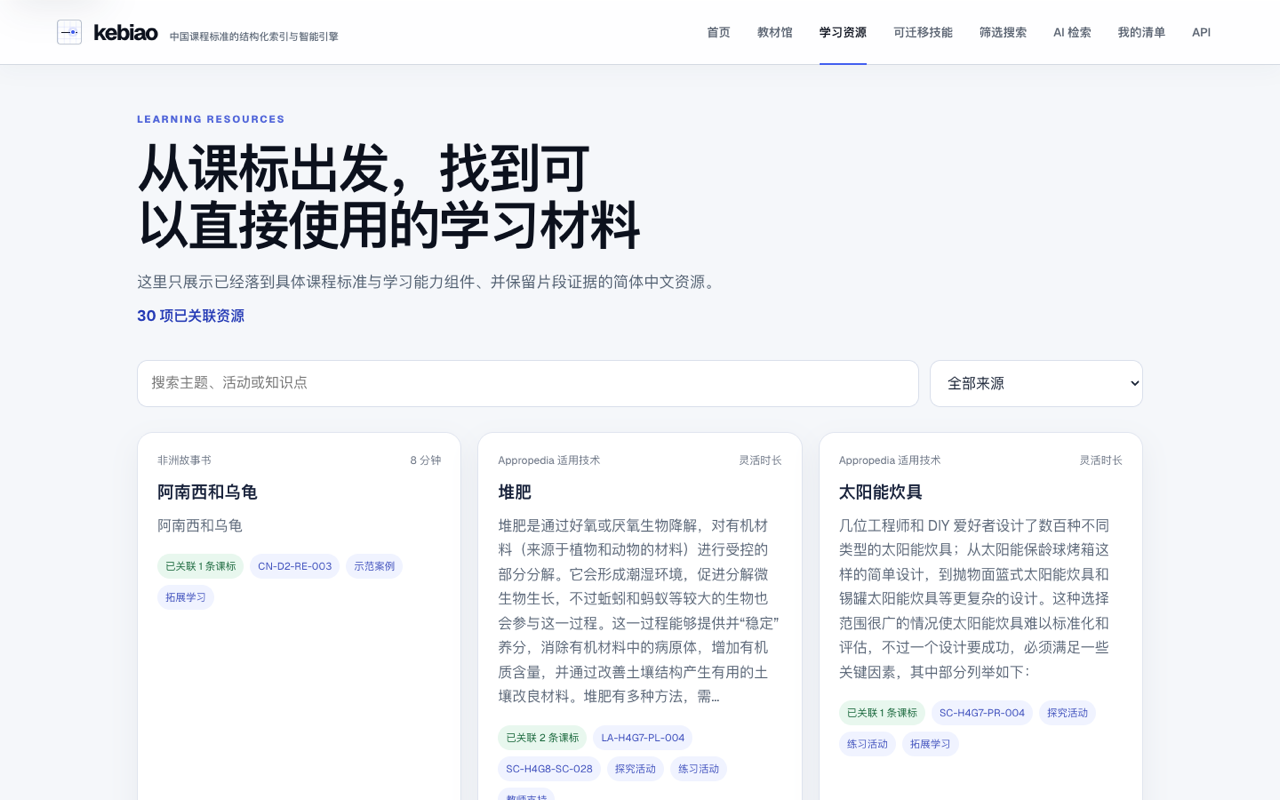
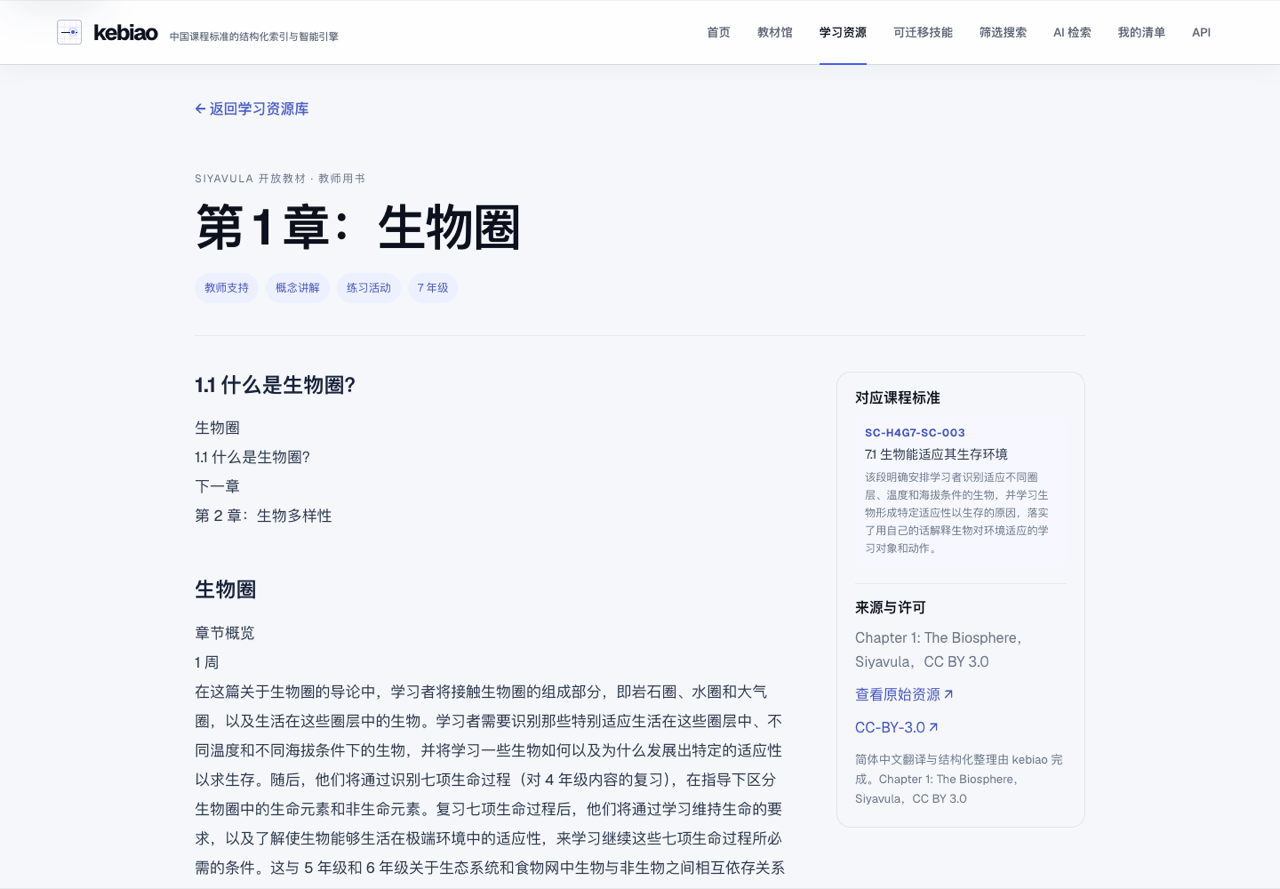
docs(readme): show grounded resource example
Use a live teaching-resource detail with its linked standard, rationale, source, and license as the project preview.

diff --git a/README.md b/README.md
@@ -77,7 +77,7 @@ flowchart LR
 
 | 从教材进入课标 | 从课标找到学习资源 |
 | --- | --- |
-| [![教材馆：按学段、学科、年级和册次浏览教材](./docs/assets/readme/textbook-library.png)](https://www.kebiao.org/textbooks) | [![学习资源库：浏览与课程标准对齐的简体中文资源](./docs/assets/readme/learning-resources.png)](https://www.kebiao.org/learning-resources) |
+| [![教材馆：按学段、学科、年级和册次浏览教材](./docs/assets/readme/textbook-library.png)](https://www.kebiao.org/textbooks) | [![学习资源详情：七年级生物圈教师材料、对应课程标准、关联理由、来源与许可](./docs/assets/readme/learning-resources.png)](https://www.kebiao.org/learning-resources) |
 | **教材馆**：对具备相应数据的教材展示章节、印刷页码、课标关系和配套资源；其余明确标注处理状态。 | **学习资源**：汇集简体中文资源，在详情页保留来源、许可与已有的关联证据。 |
 
 ## 可信，首先意味着把边界写清楚
